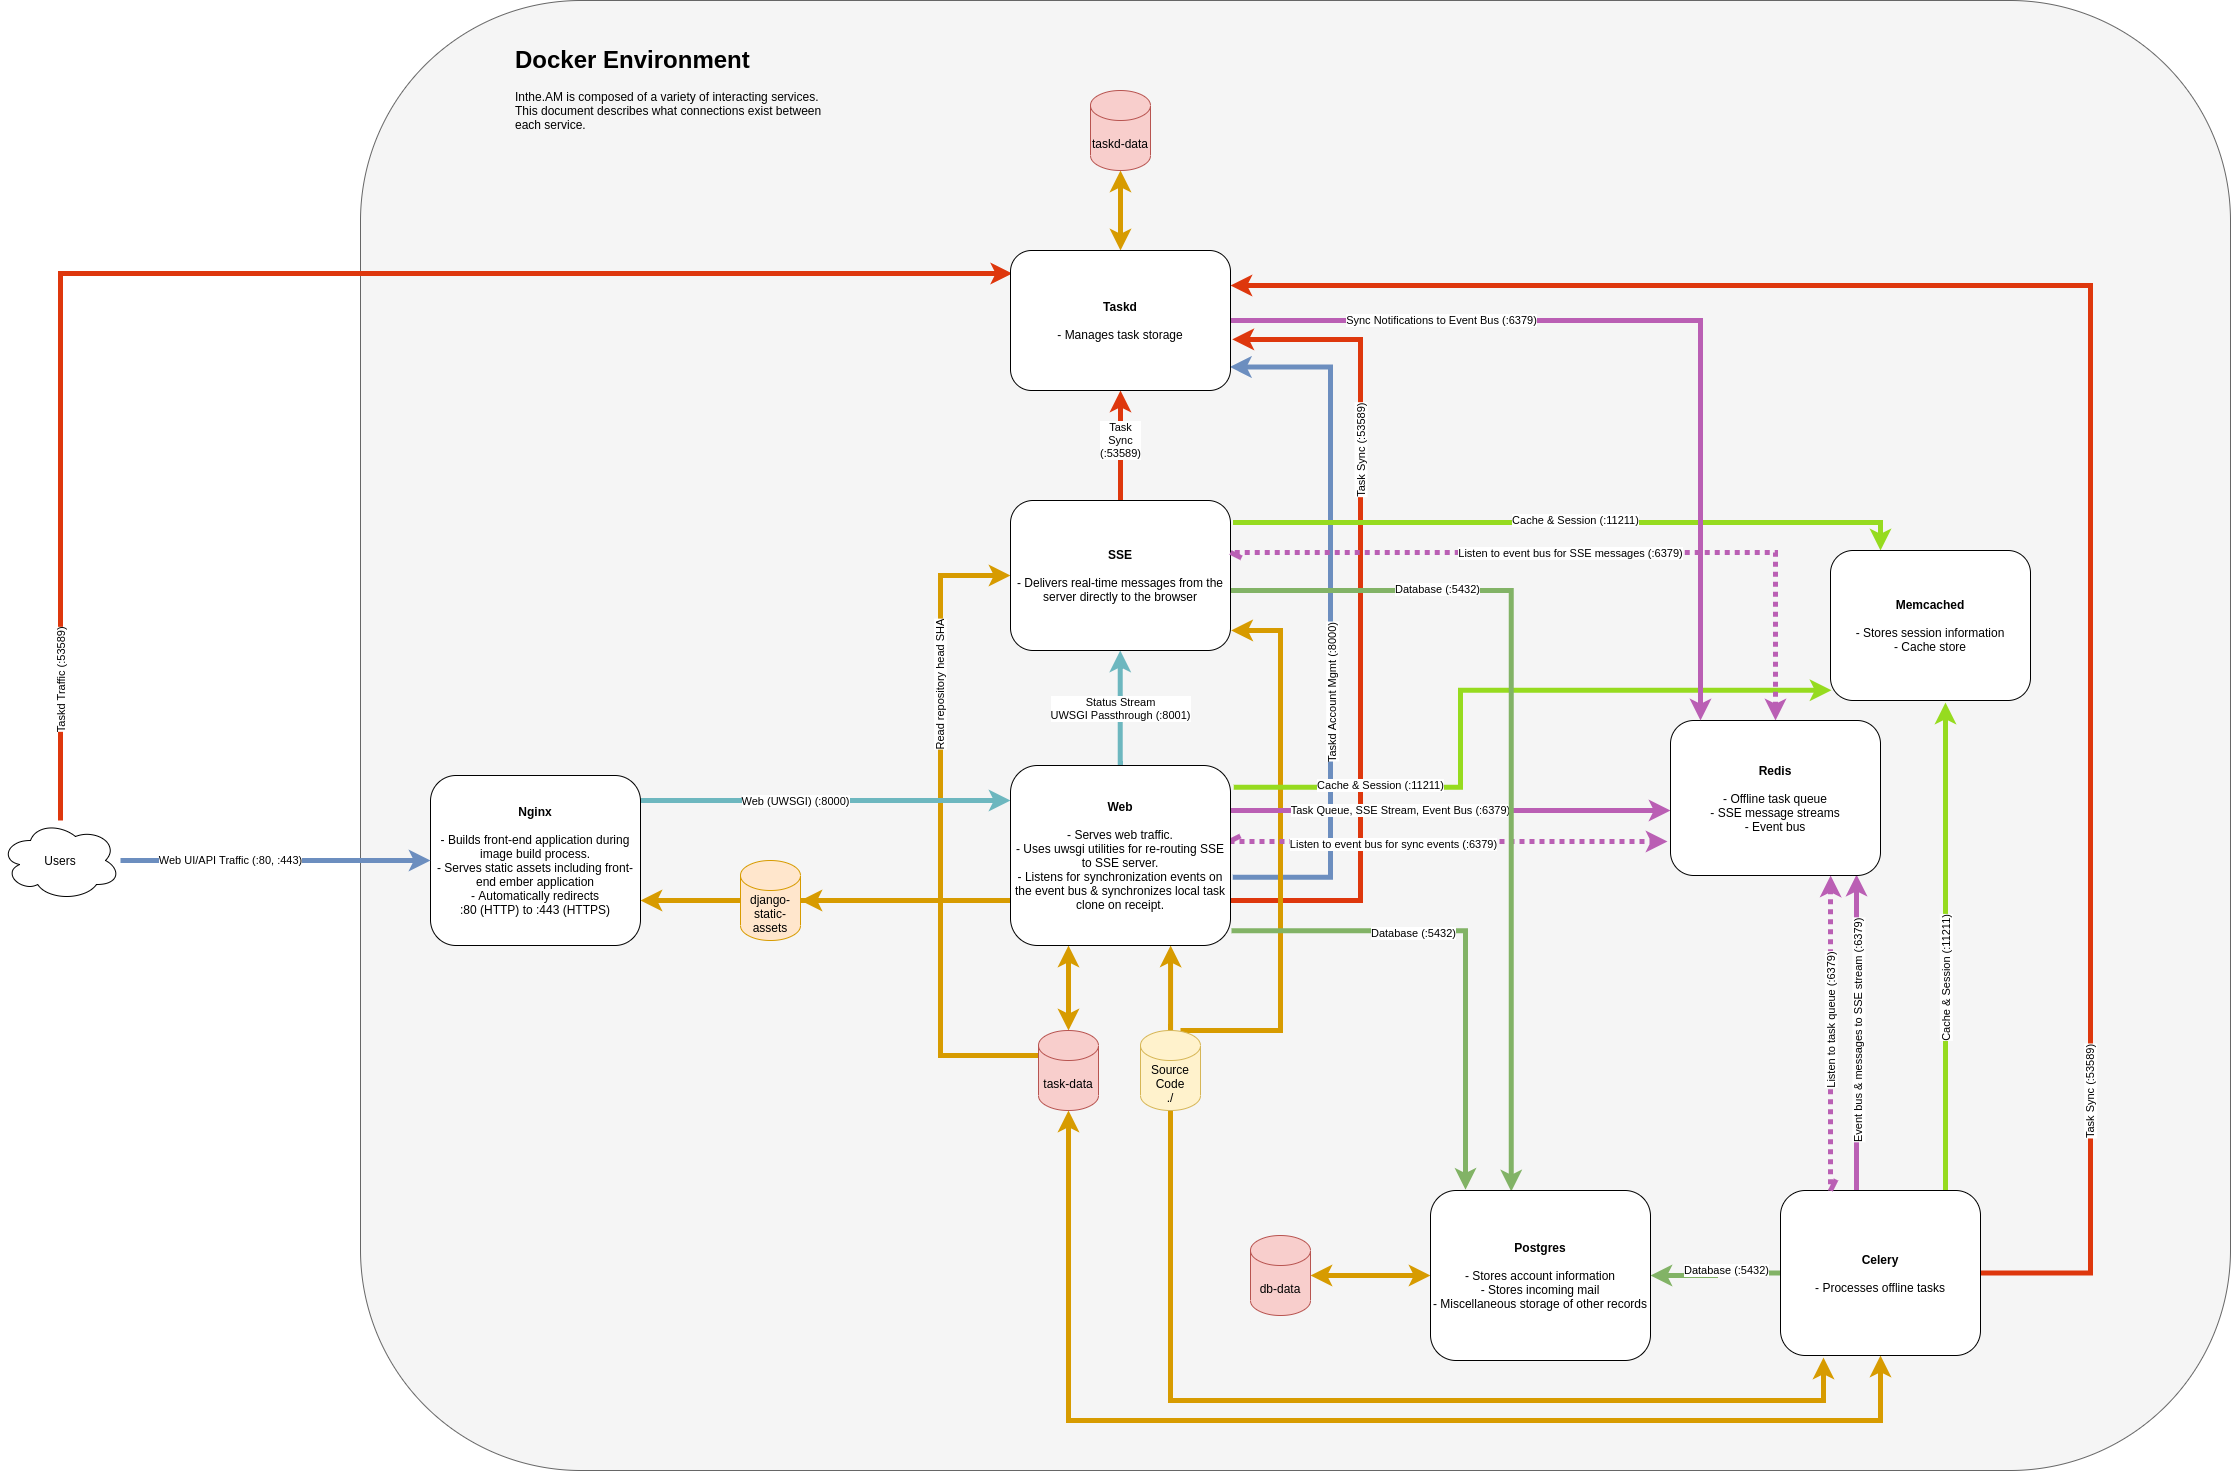
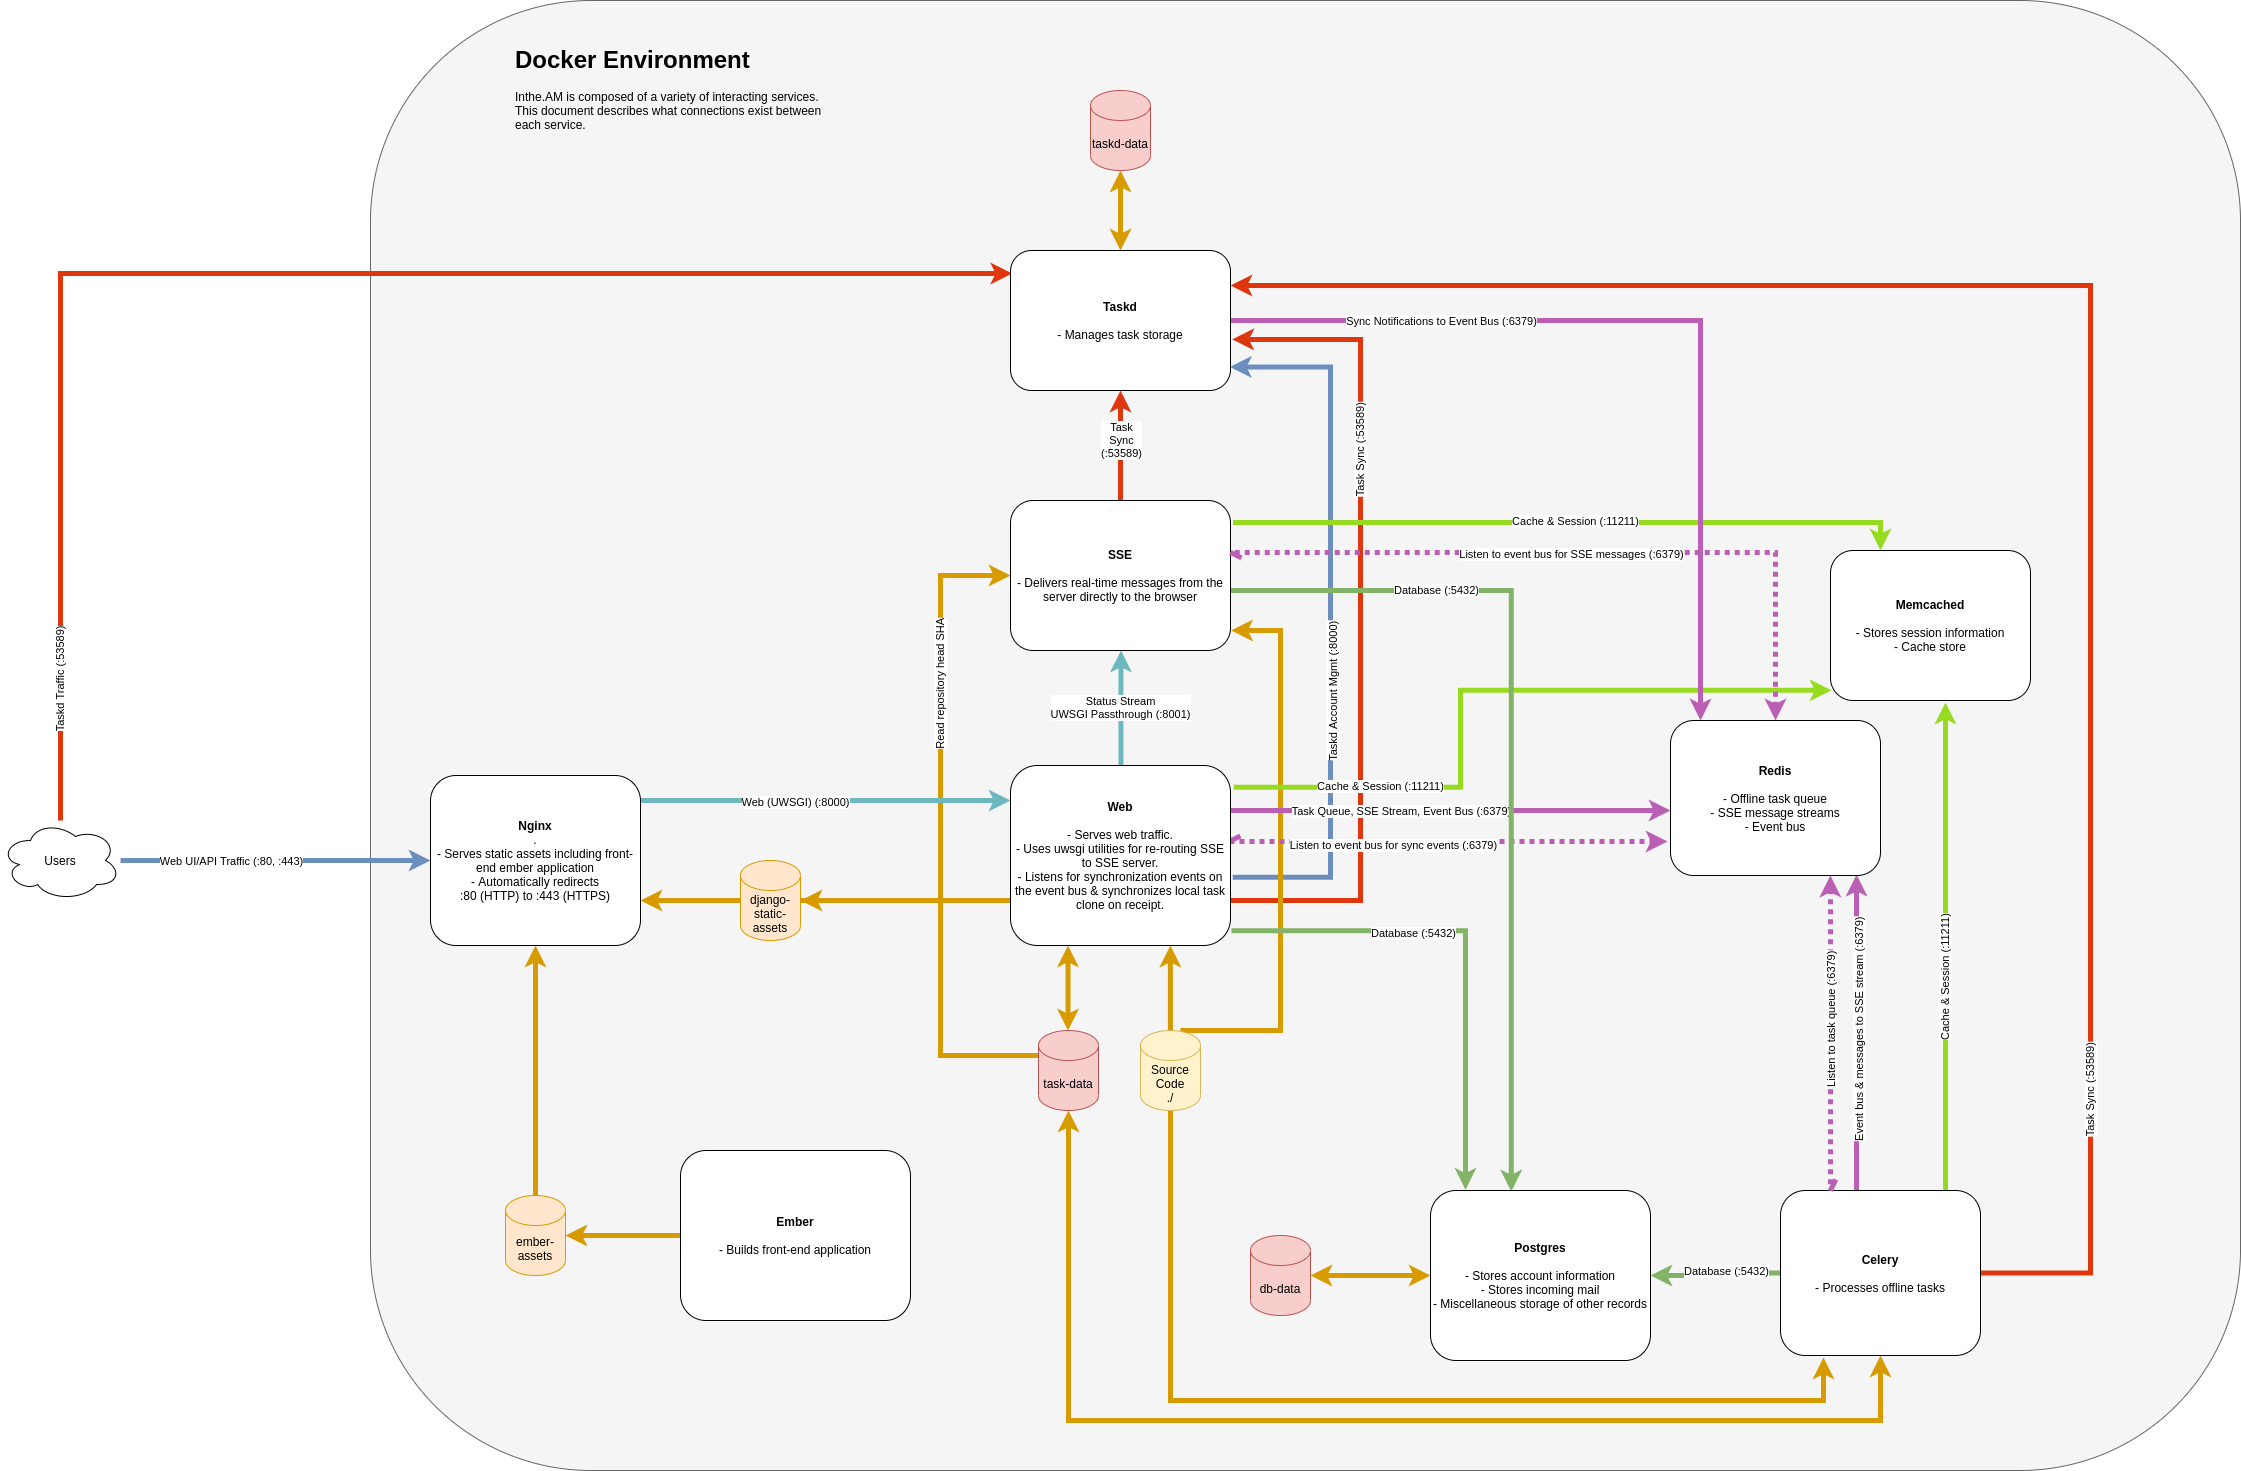
Create new 'ember' container for building ember app.

diff --git a/ember/app/app.js b/ember/app/app.js
@@ -8,7 +8,7 @@ Ember.MODEL_FACTORY_INJECTIONS = true
 var App = Ember.Application.extend({
   modulePrefix: config.modulePrefix,
   podModulePrefix: config.podModulePrefix,
-  Resolver: Resolver
+  Resolver: Resolver,
 })
 loadInitializers(App, config.modulePrefix)
 

diff --git a/ember/config/environment.js b/ember/config/environment.js
@@ -19,7 +19,7 @@ module.exports = function(environment) {
     }
   };
 
-  ENV.APP.API_HOST = 'https://localhost'
+  ENV.APP.API_HOST = 'https://' + process.env.DOMAIN_NAME
   ENV.APP.API_NAMESPACE = 'api/v2'
 
   if (environment === 'development') {
